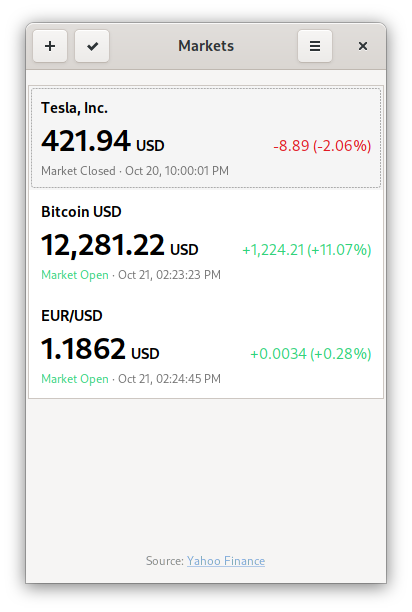
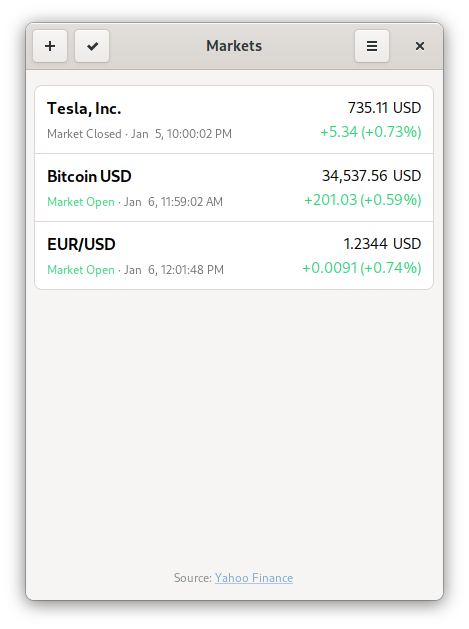
New list view

Changed region(s): [[0.0291, 0.031, 0.9612, 0.9624], [0.6117, 0.5588, 0.9029, 0.5899]]

diff --git a/data/ui/Application.css b/data/ui/Application.css
@@ -11,7 +11,7 @@
 }
 
 .text-md {
-    font-size: 1em;
+    font-size: 1.1em;
 }
 
 .text-sm {
